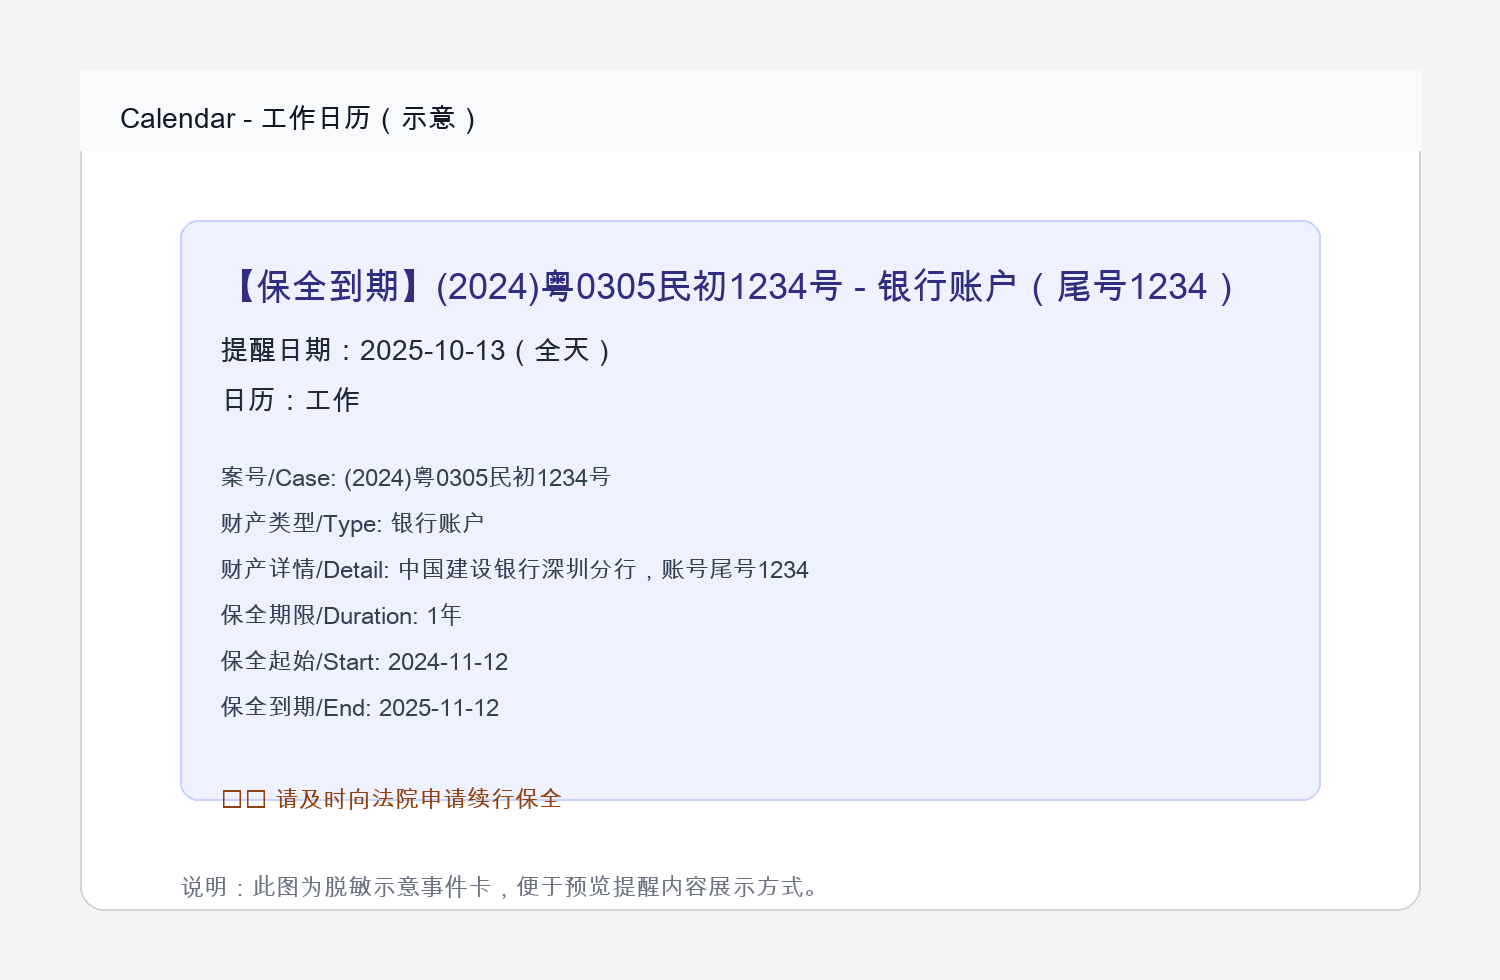
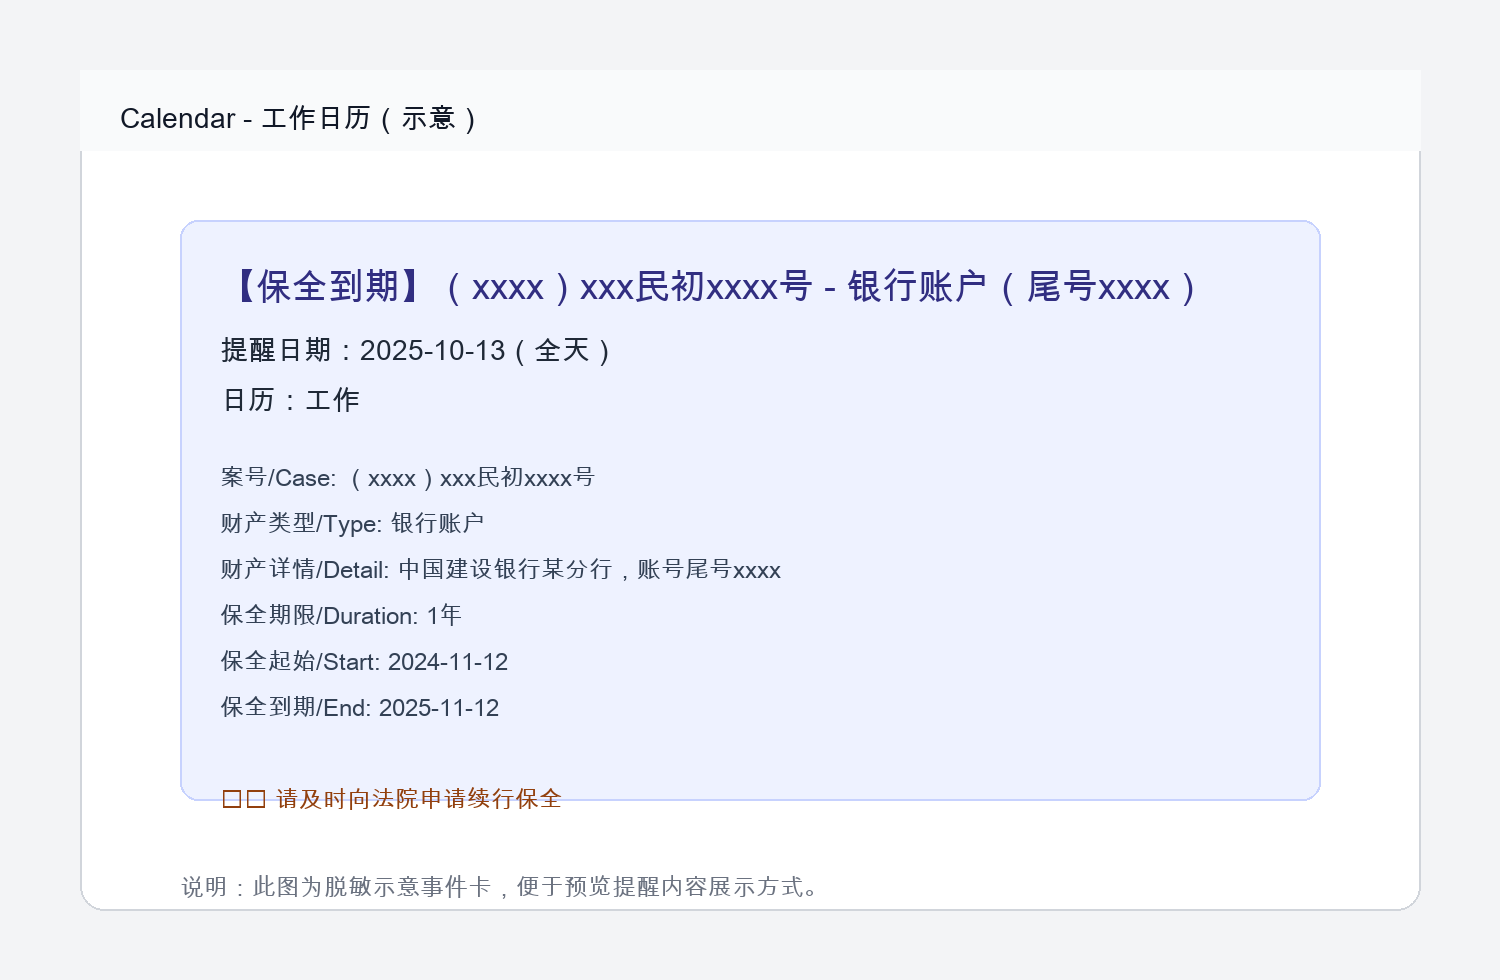
docs: anonymize case number format in README and demo screenshots

Changed region(s): [[0.276, 0.2755, 0.828, 0.3061], [0.368, 0.551, 0.5213, 0.6122], [0.2453, 0.4592, 0.3987, 0.5204]]

diff --git a/README.md b/README.md
@@ -113,7 +113,7 @@ python3 scripts/preservation.py /path/to/preservation-document.pdf
 
 ### 输入（示意）
 
-- 案号：`(2024)粤0305民初1234号`
+- 案号：`（xxxx）xxx民初xxxx号`
 - 财产 1：银行账户（尾号 1234），期限 1 年
 - 财产 2：不动产（某地址），期限 3 年
 
@@ -121,7 +121,7 @@ python3 scripts/preservation.py /path/to/preservation-document.pdf
 
 | 字段 | 示例 |
 |---|---|
-| 标题 | `【保全到期】(2024)粤0305民初1234号 - 银行账户（尾号1234）` |
+| 标题 | `【保全到期】（xxxx）xxx民初xxxx号 - 银行账户（尾号xxxx）` |
 | 提醒日期 | 到期日前 30 天 |
 | 事件类型 | 全天事件 |
 | 日历 | `工作` |
